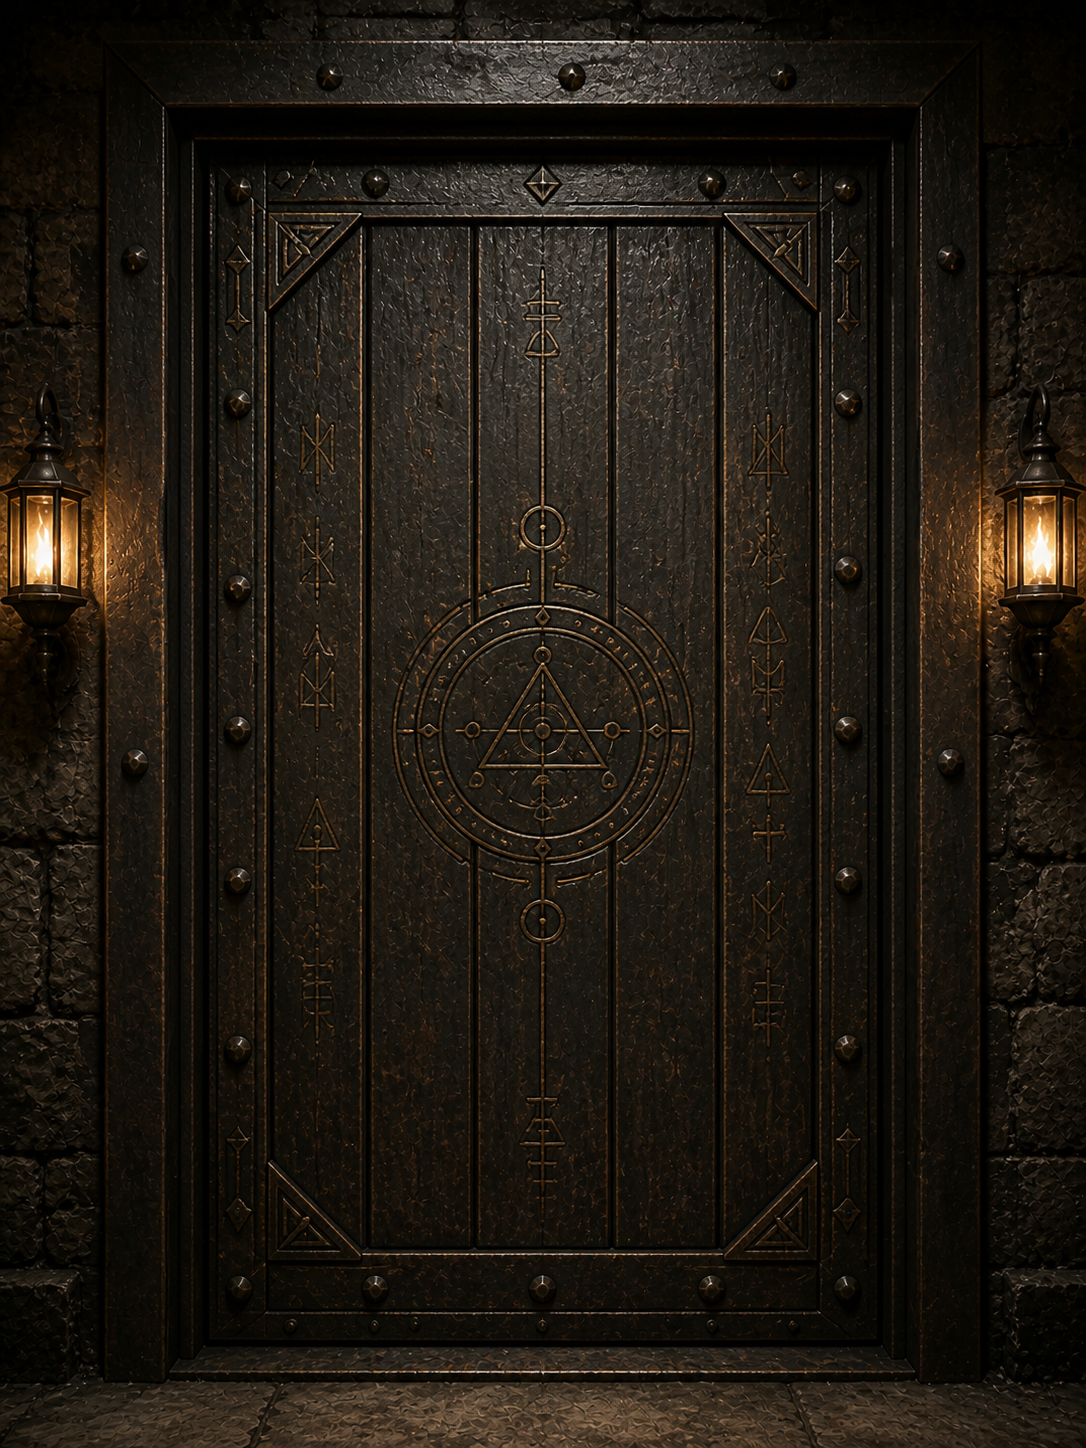
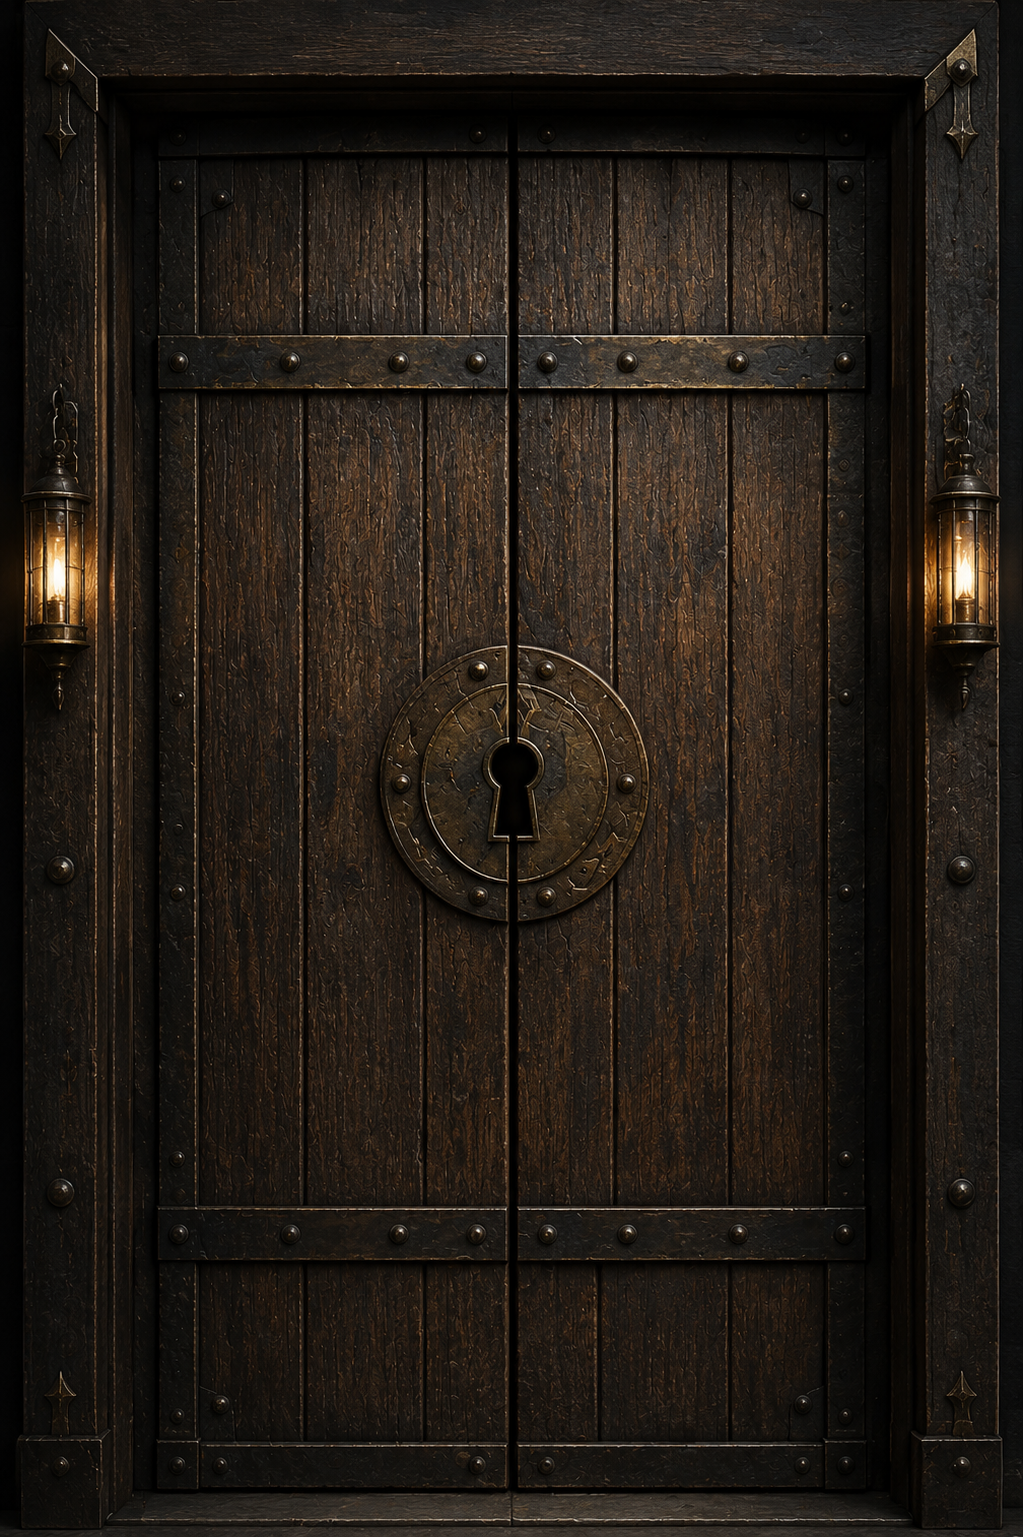
Add new door to lobby

diff --git a/client/src/pages/LobbyPage.css b/client/src/pages/LobbyPage.css
@@ -11,7 +11,7 @@
 .dashboard-lobby__content {
   width: min(100%, 1400px);
   display: grid;
-  grid-template-columns: minmax(280px, 1fr) minmax(320px, 0.95fr);
+  grid-template-columns: minmax(280px, 1fr) minmax(360px, 1.1fr);
   align-items: center;
   gap: 3rem;
 }
@@ -74,16 +74,17 @@
 
 .dashboard-lobby__door-image {
   width: auto;
-  max-width: 100%;
-  max-height: 70vh;
+  max-width: min(520px, 100%);
+  max-height: 85vh;
   object-fit: contain;
   display: block;
   transition:
     transform 0.2s ease,
     filter 0.2s ease;
-  border: 4px solid var(--Secondary);
   border-radius: 8px;
-  box-shadow: 0 8px 20px rgba(0,0,0,0.45), 0 0 24px rgba(255,215,0,0.12) inset;
+  box-shadow:
+    0 8px 20px rgba(0, 0, 0, 0.45),
+    0 0 24px rgba(255, 215, 0, 0.12) inset;
 }
 
 .dashboard-lobby__door-text {
@@ -180,6 +181,6 @@
   }
 
   .dashboard-lobby__door-image {
-    max-height: 70vh;
+    max-height: 85vh;
   }
 }

diff --git a/client/src/components/DoorCard.tsx b/client/src/components/DoorCard.tsx
@@ -1,5 +1,5 @@
 import "./DoorCard.css";
-import doorImage from "../assets/NewDoor.png";
+import doorImage from "../assets/NewDoor2.png";
 import openDoorImage from "../assets/NewDoorUnlocked.png";
 import lockIcon from "../assets/Lock-locked.png";
 import type { Door } from "../types";